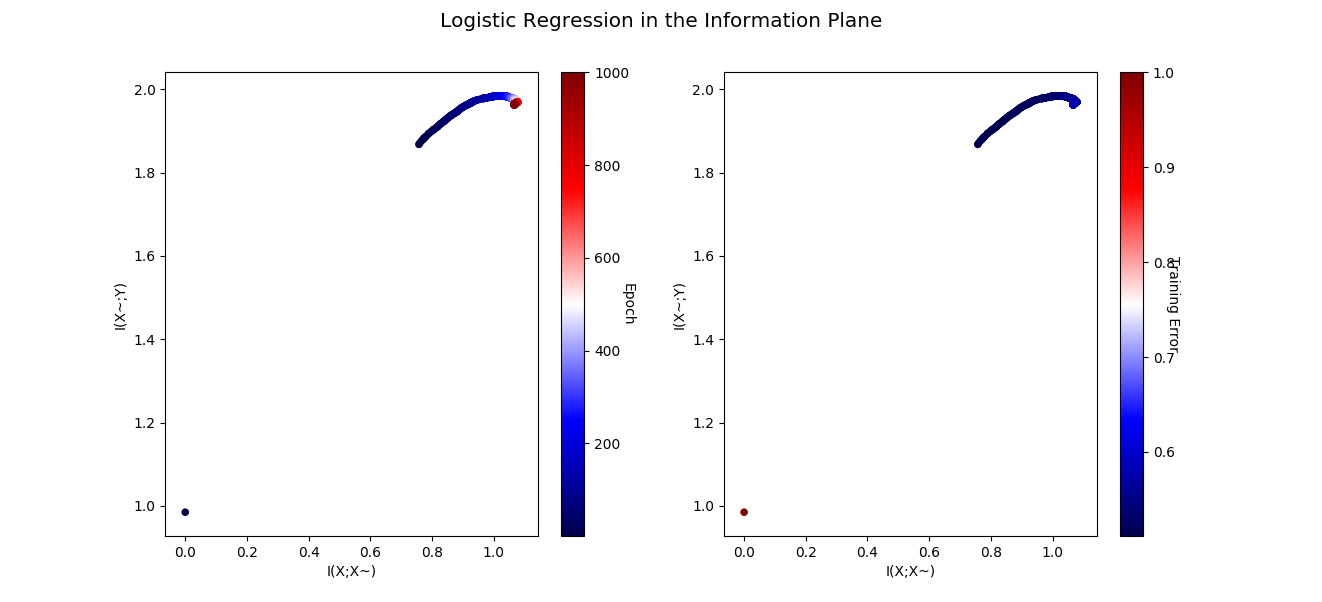
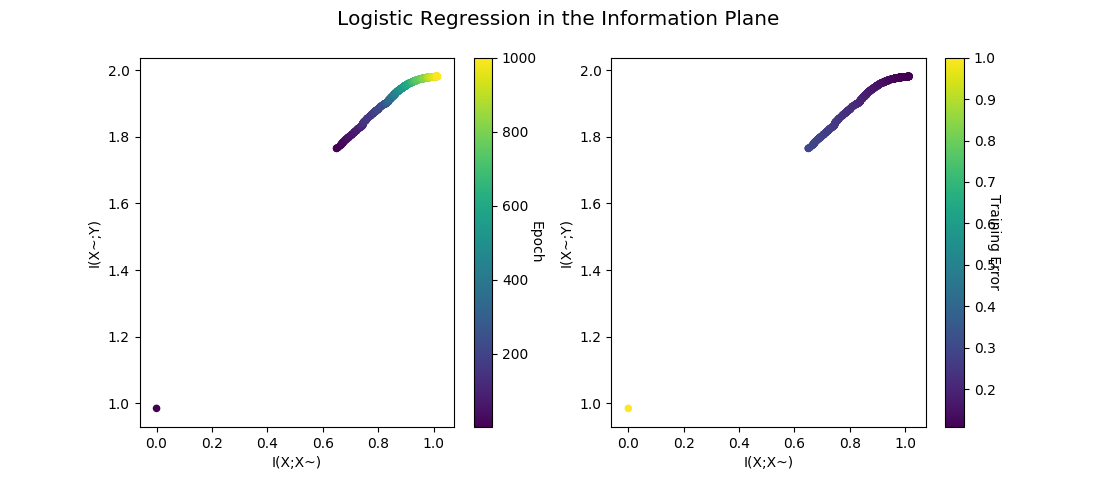
with regulaization

diff --git a/ml_algorithms.py b/ml_algorithms.py
@@ -70,14 +70,14 @@ class PERCEPTRON:
         fig, ax = plt.subplots()
         fig.suptitle("Perceptron in the Information Plane", fontsize="x-large")
         plt.subplot(1, 2, 1)
-        plt.scatter(x,y,c=n,s=20,cmap='seismic')
+        plt.scatter(x,y,c=n,s=20,cmap='viridis')
         cbar = plt.colorbar()
         cbar.ax.set_ylabel('Epoch', rotation=270)
         ax.grid(True)
         plt.xlabel('I(X;X~)')
         plt.ylabel('I(X~;Y)')
         plt.subplot(1, 2, 2)
-        plt.scatter(x,y,c=e,s=20,cmap='seismic')
+        plt.scatter(x,y,c=e,s=20,cmap='viridis')
         cbar = plt.colorbar()
         cbar.ax.set_ylabel('Training Error', rotation=270)
         ax.grid(True)
@@ -138,31 +138,35 @@ class SOFTMAX:
     # 	return Ixx, Ixy, err
 
 
+
 # Logistic Regression
 class LOGISTIC:
 
     def __init__(self):
-    	pass
+        pass
 
-    def gradient(self, theta, X_train, y_train, alpha):
-    	theta -= alpha * np.squeeze(np.matmul(np.reshape(self.h_vec(theta, X_train) - y_train, [1, -1]), X_train))
+    # Need to clean up...
+    def gradient(self, theta, X_train, y_train, alpha, lmbda):
+        theta[0] += alpha * lmbda / X_train.shape[0] * theta[0]
+        theta -= alpha * (np.squeeze(np.matmul(np.reshape(self.h_vec(theta, X_train) - y_train, [1, -1]), X_train)) 
+            + lmbda / X_train.shape[0] * theta)
 
     def h_vec(self, theta, X):
-    	return 1 / (1 + np.exp(-np.matmul(X,theta)))
+        return 1 / (1 + np.exp(-np.matmul(X,theta)))
 
-    def info_train(self, X_train, y_train, max_iter, alpha):
-    	theta = np.zeros([X_train.shape[1]])
-    	Ixx = np.zeros(max_iter)
-    	Ixy = np.zeros(max_iter)
-    	err = np.zeros(max_iter)
-    	for i in range(max_iter):
-    		pred = (np.sign(self.h_vec(theta, X_train) - 0.5) + 1) / 2
-    		err[i] = np.sum(pred != y_train) / len(y_train)
-    		data = np.column_stack((X_train[:,1:],pred))
-    		Ixx[i] = KDE(data)
-    		Ixy[i] = DISCRETE(pred, y_train)
-    		self.gradient(theta, X_train, y_train, alpha)
-    	return Ixx, Ixy, err
+    def info_train(self, X_train, y_train, max_iter, alpha, lmbda):
+        theta = np.zeros([X_train.shape[1]])
+        Ixx = np.zeros(max_iter)
+        Ixy = np.zeros(max_iter)
+        err = np.zeros(max_iter)
+        for i in range(max_iter):
+            pred = (np.sign(self.h_vec(theta, X_train) - 0.5) + 1) / 2
+            err[i] = np.sum(pred != y_train) / len(y_train)
+            data = np.column_stack((X_train[:,1:],pred))
+            Ixx[i] = KDE(data)
+            Ixy[i] = DISCRETE(pred, y_train)
+            self.gradient(theta, X_train, y_train, alpha, lmbda)
+        return Ixx, Ixy, err
 
 
     # Plot to Information Plane
@@ -170,21 +174,20 @@ class LOGISTIC:
         fig, ax = plt.subplots()
         fig.suptitle("Logistic Regression in the Information Plane", fontsize="x-large")
         plt.subplot(1, 2, 1)
-        plt.scatter(x,y,c=n,s=20,cmap='seismic')
+        plt.scatter(x,y,c=n,s=20,cmap='viridis')
         cbar = plt.colorbar()
         cbar.ax.set_ylabel('Epoch', rotation=270)
         ax.grid(True)
         plt.xlabel('I(X;X~)')
         plt.ylabel('I(X~;Y)')
         plt.subplot(1, 2, 2)
-        plt.scatter(x,y,c=e,s=20,cmap='seismic')
+        plt.scatter(x,y,c=e,s=20,cmap='viridis')
         cbar = plt.colorbar()
         cbar.ax.set_ylabel('Training Error', rotation=270)
         ax.grid(True)
         plt.xlabel('I(X;X~)')
         plt.ylabel('I(X~;Y)')
         plt.show()
-
 
 # Linear Discriminant Analysis
 class LDA:

diff --git a/test.py b/test.py
@@ -115,6 +115,25 @@ def logistic_test():
     Ixx, Ixy, error = logistic.info_train(X, data[:,-1], max_iter, alpha)
     logistic.plot_IPlane(Ixx,Ixy,np.arange(1,max_iter+1),error)
 
+
+# Logistic Regression
+def logistic_test():
+    # setup
+    n = 300
+    param = simple_paramters(n,n,0,1)
+    # sample
+    data = sample_gaussian(param, 2)
+    # Perceptron
+    logistic = LOGISTIC()
+    # Train and Plot
+    max_iter = 1000
+    alpha = 0.0001
+    lmbda = 0
+    # X = np.concatenate((np.ones((data.shape[0],1)), data[:,0:-1]), axis=1)
+    X = np.concatenate((np.ones((data.shape[0],1)), data[:,0:-1],np.square(data[:,0:-1])), axis=1)
+    Ixx, Ixy, error = logistic.info_train(X, data[:,-1], max_iter, alpha, lmbda)
+    logistic.plot_IPlane(Ixx,Ixy,np.arange(1,max_iter+1),error)
+
 # Softmax Regression
 def softmax_test():
     # setup
